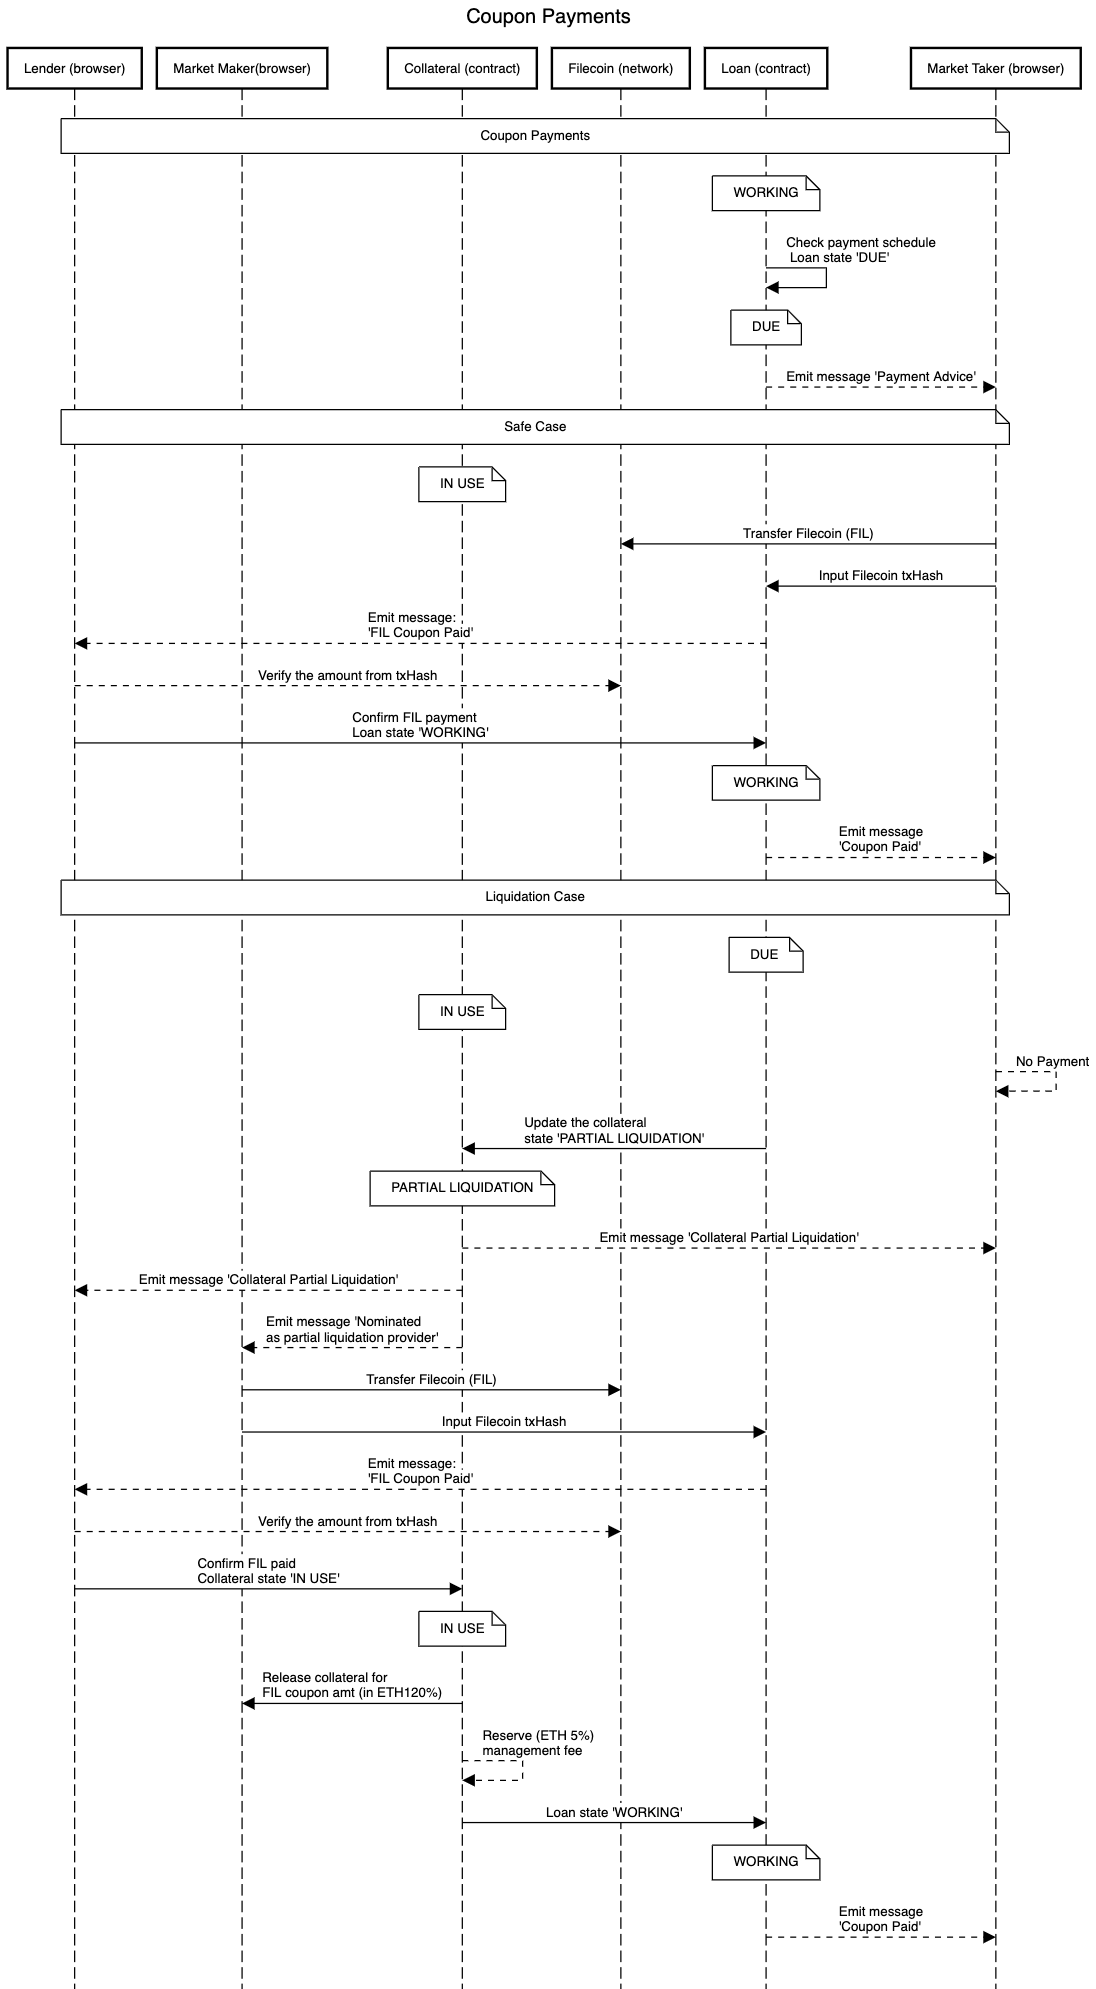
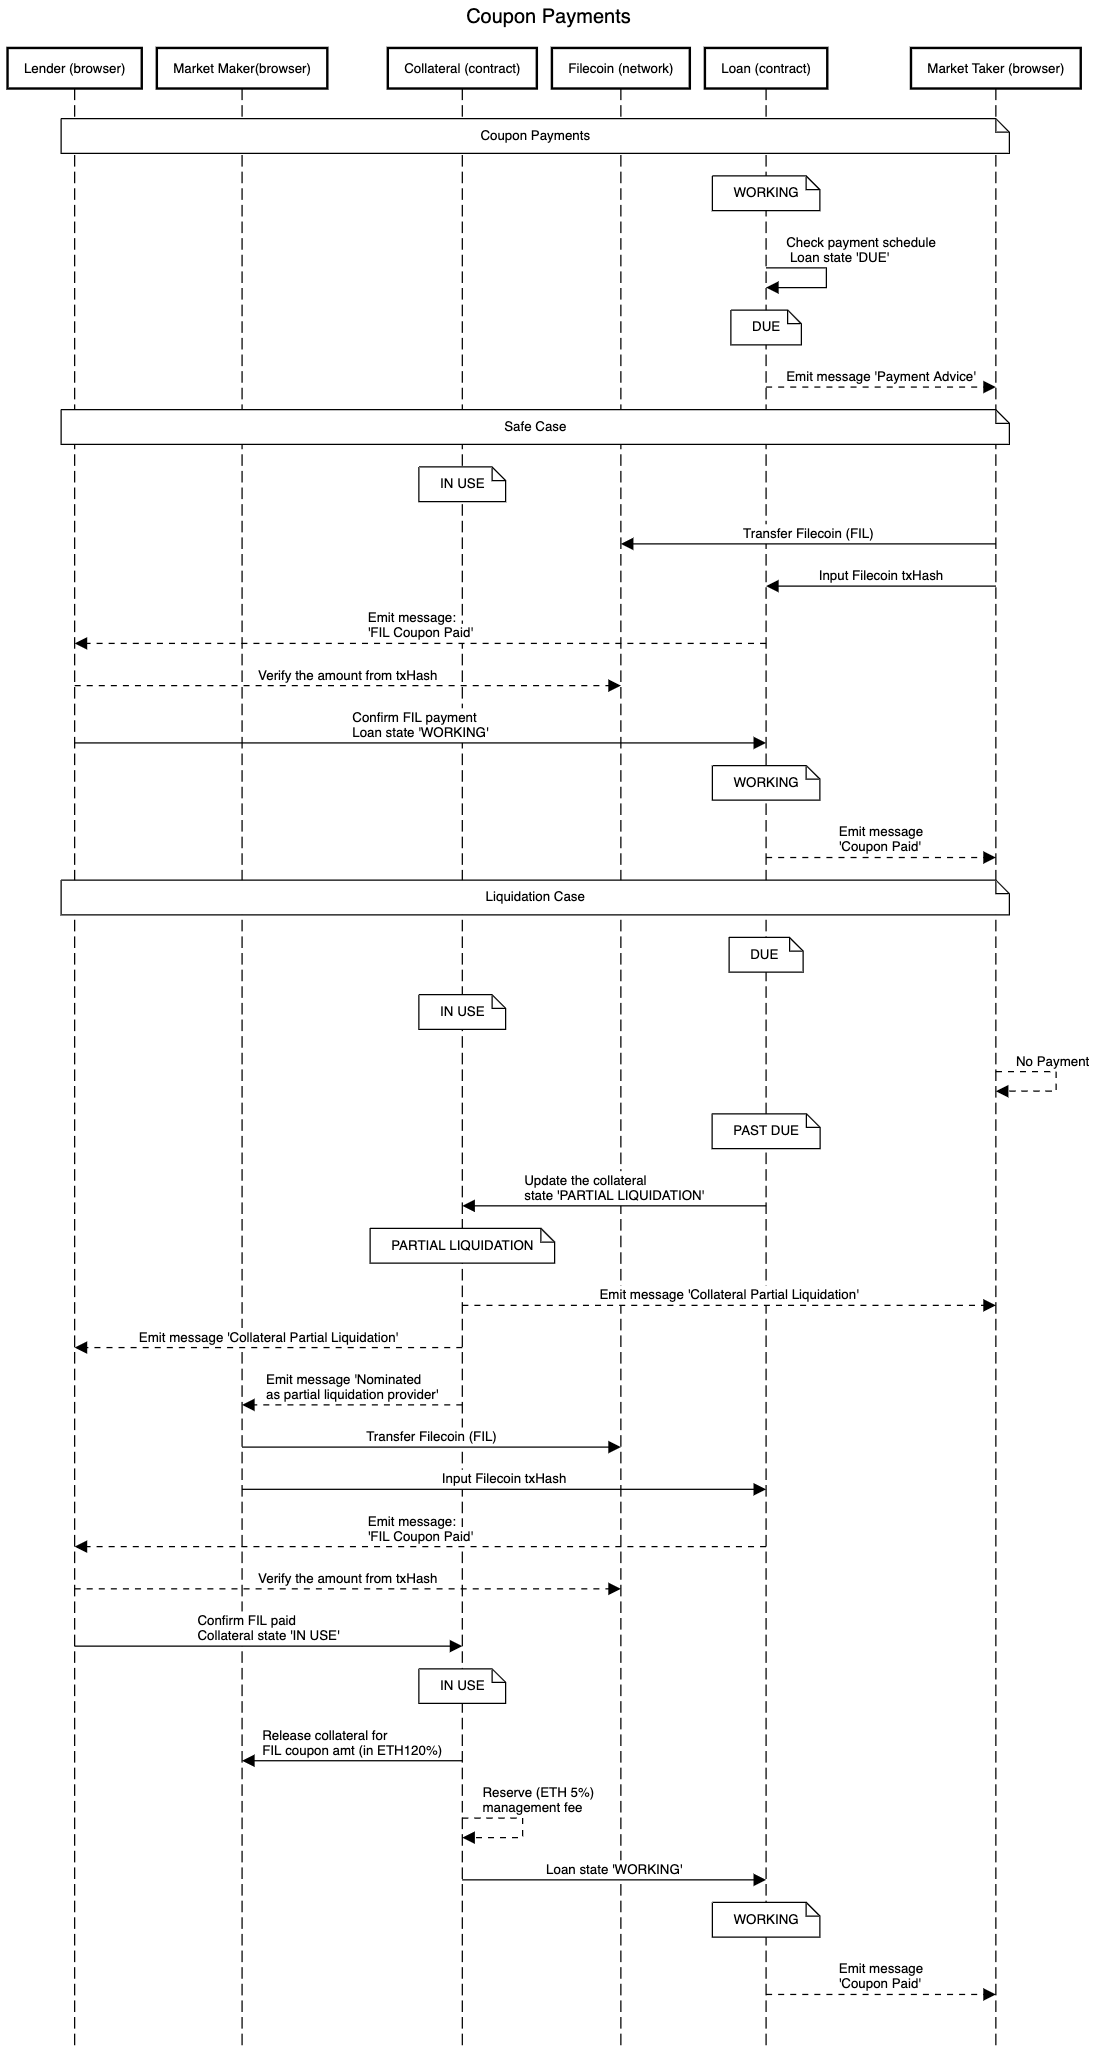
PAST_DUE state added to Loan

diff --git a/basics/README.md b/basics/README.md
@@ -11,9 +11,9 @@ This directory has diagrams to explain how each player, network, and smart contr
 - Market.sol
   - A smart contract to gather all market information. It works like a database.
 - Collateral.sol
-  - A smart contract that collets ETH as collateral and manages the control of the funds' ownership based on its state (`EMPTY`, `AVAILABLE`, `IN_USE`, `MARGINCALL`, `PARTIAL_LIQUIDATION`, `LIQUIDATION`). For FIL as collateral, we keep txHash and let the user's counterparty confirm the FIL balance manually.
+  - A smart contract that collets ETH as collateral and manages the control of the funds' ownership based on its state (`EMPTY`, `AVAILABLE`, `IN_USE`, `MARGIN_CALL`, `PARTIAL_LIQUIDATION`, `LIQUIDATION`). For FIL as collateral, we keep txHash and let the user's counterparty confirm the FIL balance manually.
 - Loan.sol
-  - It is a smart contract that stores all the loans to manage schedules for coupon payments, calculate PV (present value), and control its state (`REGISTERED`, `WORKING`, `DUE`, `CLOSED`, `TERMINATED`).
+  - It is a smart contract that stores all the loans to manage schedules for coupon payments, calculate PV (present value), and control its state (`REGISTERED`, `WORKING`, `DUE`, `PAST_DUE`, `CLOSED`, `TERMINATED`).
 - Scheduler
   - It stays on the user's browser (or our back-up server in case nobody is using the web app) and uses web3js pub-sub to catch a new blockhead as a clock-tick. Each tick kicks batch operations such as market updates, re-evaluate PV of all financial products for a margin call.
 - Filecoin Network
@@ -41,7 +41,7 @@ A loan takes one of the following 6 steps, depending on the states of Collateral
 
    1. Periodically, the Loan contract checks the payment schedule and update the loan's state.
    2. Before the scheduled payments, the Loan contract emits messages for payment advice (default to 2 weeks prior). After the advice, the loan state changes to `DUE`, and the coupon payments should be made until the payment time.
-   3. If takers failed to pay coupons, the loan state changes to `PARTIAL LIQUIDATION` to cover up coupon payments from takers' collateral.
+   3. If takers failed to pay coupons, the loan state changes to `PAST_DUE` and the collateral state changes to `PARTIAL LIQUIDATION` to cover up coupon payments from takers' collateral.
    4. Suppose the collateral currency is different from loan currency. In that case, one of the best makers is nominated as the liquidity provider, and they will convert partial ETH collateral to FIL with a very attractive rate (default to 120%).
    5. In any case, coupon payment will be made, and the loan state will be back to `WORKING` and the collateral state to be `IN_USE`.
 
